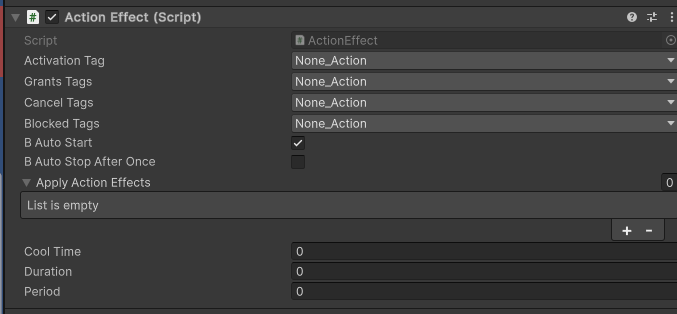
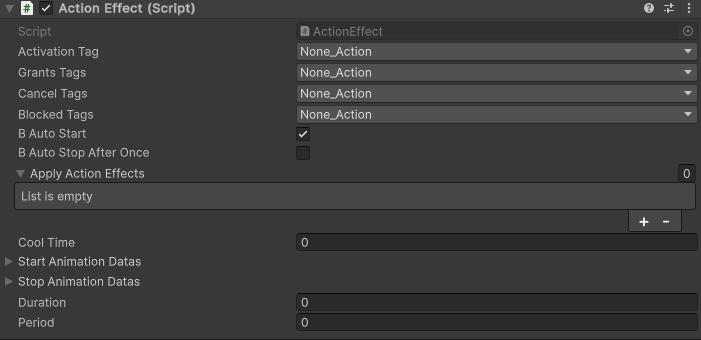
Readme Update

Changed region(s): [[0.0, 0.0, 1.0, 1.0], [0.4343, 0.8312, 1.0, 0.9459]]

diff --git a/Assets/Scripts/UI/UI_CharacterPlate.cs b/Assets/Scripts/UI/UI_CharacterPlate.cs
@@ -1,7 +1,6 @@
-using NUnit.Framework;
-using System;
-using TMPro;
+using TMPro;
 using UnityEngine;
+using UnityEngine.Assertions;
 using UnityEngine.UI;
 
 public class UI_CharacterPlate : MonoBehaviour

diff --git a/README.md b/README.md
@@ -1,17 +1,25 @@
 # 주제
-![Example Image](./ReadmeResource/Game%20Capture.png)
+
 
 UE의 GameplayAbilitySystem을 모방 하여 제작 한 시스템 UnityActionSystem  
 기본 GameplayTag는 Enum으로 대체  
 
 Action을 이용하여 기능 추가. ActionEffect를 이용해 캐릭터간의 상호작용 추가  
-Enum으로 만든 EGameplayTag를 기반으로 Action 처리  
 
-# 작업 기간 : 2025/02/25 ~ 2025/02/28
+
+# 작업 기간 : 2025/02/25 ~ 2025/03/02 (6일)
 ## 환경 : Unity6 / VS2022
 
+# 주요 기능 요약
+## Player의 현재 Active 된 GameplayTag들을 기반으로 상호작용 및 Action을 관리
+ex)  Defence중 Attack을 하지 못하게 설정 하는 Case
+Defence 중에는 Status_Defencing이 켜져있음. Attack을 실행하려고 체크 시 Attack에 Blocked로 설정 해 둔 Status_Defencing에 의해 Start를 못하도록 Block
+
+![Example Image](./ReadmeResource/Defence.png)![Example Image](./ReadmeResource/Attack%20Base.png)  
+
+
 # Action
-![Example Image](./ReadmeResource/Action.png)
+![Example Image](./ReadmeResource/Action.png)  
 Activation Tag : Action의 Unique 확인용 Tag 해당 Tag를 이용해 Action 적용 가능.  
 Grants Tags : 해당 Action 소유주에게 부여 할 Tags 정의.  
 Cancel Tags : Action 수행 시 활성화 돼 있는 Action을 정지 시킬 Tags 정의.  
@@ -19,9 +27,11 @@ Blocked Tags : 해당 Action 실행 전 Blocked Tags로 정의된 Tag를 Action 
 AutoStart : AddAction시 바로 시작 여부.  
 AutoStopAfterOnce : 실행 직후 해제 여부.  
 ApplyActionEffects : 특정 Target에 ActionEffects를 적용할 List 적용 할 Action은 IApplyActionEffectsInterface 상속 필요.  
+Cool Time : 각 Action  별 쿨타임 설정. 쿨타임 중에는 스킬 사용 불가.  
+Start Animation Datas, Stop Animation Datas : 각 상황 별 실행, 중지 애니메이션 데이터 세팅을 위한 내용 정의.
 
 ## 생성 Action
-![Example Image](./ReadmeResource/CreatedAction.png)
+![Example Image](./ReadmeResource/CreatedAction.png)  
 Action_Attack : Mouse 우클릭 : 공격 (Action_RangedAttack상세 원거리 공격 적용)  
 Action_Defence : Mouse 좌클릭 : 방어  
 Action_Skill1 : Q : 본인 체력 감소 확인용 스킬 (출혈 효과 적용)  
@@ -29,7 +39,7 @@ Action_Skill2 : E : 무적 효과 적용
 Action_Dash : L Shift : 무적 효과 적용  
 
 # ActionEffect
-![Example Image](./ReadmeResource/ActionEffect.png)
+![Example Image](./ReadmeResource/ActionEffect.png)  
 기본 Action을 상속받아 위 서술한 부분은 생략  
 Duration : ActionEffect 를 적용할 시간  
 Period : 해당 ActionEffect를 적용할 주기  
@@ -37,13 +47,15 @@ Period : 해당 ActionEffect를 적용할 주기
 적용 횟수 : Duration / Period  
 
 ## 생성 ActionEffect
-![Example Image](./ReadmeResource/CreatedActionEffect.png)
+![Example Image](./ReadmeResource/CreatedActionEffect.png)  
 ActionEffect_Base : 특정 시간, 주기 동안 어떤 효과를 적용 시킬 지 설정 가능  
 ActionEffect_Bleeding : 출혈 효과 : Target의 체력을 dot damage로 감소  
 ActionEffect_Invincibility : 무적 효과 : 적용 Target의 체력 감소 효과를 무시  
 
 # UI
-![Example Image](./ReadmeResource/UI.png)
+![Example Image](./ReadmeResource/Main.png)
 Unity InputSystem에 Bind 된 Key 설명 UI  
 캐랙터들의 name과 HP Update를 적용  
 현재 캐릭터에게 부여된 Tag들을 상단에서 표시  
+스킬 쿨타임 UI : 남아있는 시간을 확인하며 UI 갱신
+![Example Image](./ReadmeResource/Skill%20Cooltime%20UI.gif)
